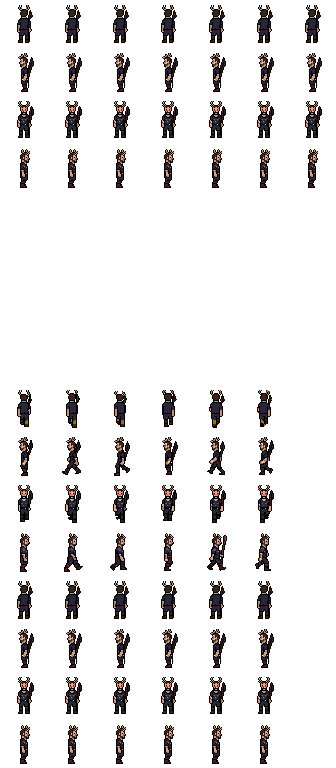
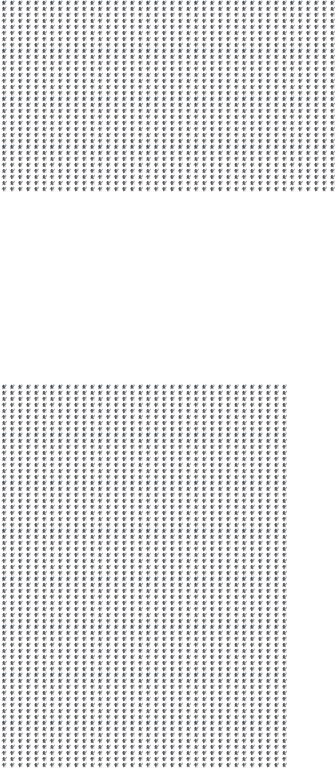
new sprites gamelab

diff --git a/src/data/assets_list.js b/src/data/assets_list.js
@@ -1,1 +1,1 @@
-export const ASSET_NAMES = ['class_druid', 'class_necromancer', 'class_paladin', 'class_ranger', 'class_rogue', 'class_selection', 'class_selection_screen', 'class_shaman', 'class_sorceress', 'class_warlock', 'class_warrior', 'enemy_bat', 'enemy_cultist', 'enemy_demon', 'enemy_ghost', 'enemy_goblin', 'enemy_golem', 'enemy_skeleton', 'enemy_spider', 'enemy_zombie', 'env_bridge', 'env_door', 'env_floor', 'env_grass', 'env_path', 'env_sand', 'env_sand_hd', 'env_stairs_down', 'env_stairs_up', 'env_tree', 'env_wall', 'env_water', 'item_amulet', 'item_amulet_viper_hd', 'item_armor_chain', 'item_armor_leather', 'item_armor_plate', 'item_armor_robe', 'item_axe', 'item_axe_hand', 'item_axe_hd', 'item_axe_war', 'item_belt', 'item_bone_wand', 'item_book_skill_hd', 'item_boots', 'item_boots_leather', 'item_boots_war', 'item_bow', 'item_bow_long', 'item_bow_short', 'item_buckler', 'item_chain_mail', 'item_charm_grand', 'item_charm_large', 'item_charm_small', 'item_chest', 'item_circlet', 'item_crown', 'item_dagger', 'item_emerald', 'item_emerald_perfect', 'item_gauntlets', 'item_gloves', 'item_gloves_gauntlets', 'item_gloves_leather', 'item_grand_totem', 'item_great_helm', 'item_great_helm_hd', 'item_hammer_war', 'item_hand_axe', 'item_helm', 'item_helm_circlet', 'item_helm_great', 'item_helm_leather', 'item_horadric_fragment', 'item_key_hellfire', 'item_leather_armor', 'item_leather_boots', 'item_helm_leather', 'item_gloves', 'item_long_bow', 'item_long_sword', 'item_mace_hd', '', 'item_mace_hd', 'item_mephisto_soulstone', 'item_orb', 'item_orb_arcane', 'item_plate_mail', 'item_plate_mail_hd', 'item_potion_hp', 'item_potion_mp', 'item_potion_rejuv', 'item_ring', 'item_robe', 'item_ruby', 'item_ruby_perfect', 'item_rune_amn', 'item_rune_blade', 'item_rune_dol', 'item_rune_el', 'item_rune_eld', 'item_rune_eth', 'item_rune_fal', 'item_rune_gul', 'item_rune_hel', 'item_rune_io', 'item_rune_ist', 'item_rune_ith', 'item_rune_ko', 'item_rune_lem', 'item_rune_lum', 'item_rune_mal', 'item_rune_nef', 'item_rune_ort', 'item_rune_pul', 'item_rune_ral', 'item_rune_shael', 'item_rune_sol', 'item_rune_tal', 'item_rune_thul', 'item_rune_tir', 'item_rune_um', 'item_rune_vex', 'item_rune_zod', 'item_sapphire', 'item_sapphire_perfect', 'item_scroll', 'item_scroll_blue', 'item_scroll_tp', 'item_shield', 'item_shield_buckler', 'item_shield_hd', 'item_shield_source', 'item_shield_tower', 'item_short_bow', 'item_short_staff', 'item_short_sword', 'item_skull', 'item_skull_perfect', 'item_source', 'item_staff', 'item_staff_kings_hd', 'item_staff_short', 'item_staff_war', 'item_sword', 'item_sword_hd', 'item_sword_long', 'item_sword_short', 'item_sword_zweihander', 'item_tome_id', 'item_tome_tp', 'item_topaz', 'item_topaz_perfect', 'item_totem', 'item_totem_base', 'item_tower_shield', 'item_wand', 'item_wand_base', 'item_wand_bone', 'item_war_axe', 'item_war_boots', 'item_war_hammer', 'item_war_hammer_hd', 'item_war_staff', 'item_wirts_leg', 'item_zweihander', 'npc_elder', 'npc_merchant', 'npc_portrait_akara', 'npc_portrait_charsi', 'npc_portrait_deckard_cain', 'npc_portrait_generic', 'npc_portrait_kashya', 'npc_villager', 'obj_barrel', 'obj_chest', 'obj_chest_hd_v2', 'obj_chest_open', 'obj_debris', 'obj_shrine', 'obj_shrine_used', 'obj_urn', 'rune_amn', 'rune_dol', 'rune_el', 'rune_eld', 'rune_eth', 'rune_fal', 'rune_gul', 'rune_ist', 'rune_ith', 'rune_ko', 'rune_lem', 'rune_lum', 'rune_mal', 'rune_nef', 'rune_ort', 'rune_pul', 'rune_ral', 'rune_shael', 'rune_sol', 'rune_tal', 'rune_thul', 'rune_tir', 'rune_um', 'rune_vex', 'rune_zod'];
+export const ASSET_NAMES = ['class_druid', 'class_necromancer', 'class_paladin', 'class_ranger', 'class_rogue', 'class_selection', 'class_selection_screen', 'class_shaman', 'class_shaman_spritesheet', 'class_sorceress', 'class_warlock', 'class_warrior', 'enemy_bat', 'enemy_cultist', 'enemy_demon', 'enemy_ghost', 'enemy_goblin', 'enemy_golem', 'enemy_skeleton', 'enemy_spider', 'enemy_zombie', 'env_bridge', 'env_door', 'env_floor', 'env_grass', 'env_path', 'env_sand', 'env_sand_hd', 'env_stairs_down', 'env_stairs_up', 'env_tree', 'env_wall', 'env_water', 'npc_blacksmith', 'npc_elder', 'npc_guard', 'npc_merchant', 'mercenary_warrior', 'mercenary_archer', 'item_amulet', 'item_amulet_viper_hd', 'item_armor_chain', 'item_armor_leather', 'item_armor_plate', 'item_armor_robe', 'item_axe', 'item_axe_hand', 'item_axe_hd', 'item_axe_war', 'item_belt', 'item_bone_wand', 'item_book_skill_hd', 'item_boots', 'item_boots_leather', 'item_boots_war', 'item_bow', 'item_bow_long', 'item_bow_short', 'item_buckler', 'item_chain_mail', 'item_charm_grand', 'item_charm_large', 'item_charm_small', 'item_chest', 'item_circlet', 'item_crown', 'item_dagger', 'item_emerald', 'item_emerald_perfect', 'item_gauntlets', 'item_gloves', 'item_gloves_gauntlets', 'item_gloves_leather', 'item_grand_totem', 'item_great_helm', 'item_great_helm_hd', 'item_hammer_war', 'item_hand_axe', 'item_helm', 'item_helm_circlet', 'item_helm_great', 'item_helm_leather', 'item_horadric_fragment', 'item_key_hellfire', 'item_leather_armor', 'item_leather_boots', 'item_helm_leather', 'item_gloves', 'item_long_bow', 'item_long_sword', 'item_mace_hd', '', 'item_mace_hd', 'item_mephisto_soulstone', 'item_orb', 'item_orb_arcane', 'item_plate_mail', 'item_plate_mail_hd', 'item_potion_hp', 'item_potion_mp', 'item_potion_rejuv', 'item_ring', 'item_robe', 'item_ruby', 'item_ruby_perfect', 'item_rune_amn', 'item_rune_blade', 'item_rune_dol', 'item_rune_el', 'item_rune_eld', 'item_rune_eth', 'item_rune_fal', 'item_rune_gul', 'item_rune_hel', 'item_rune_io', 'item_rune_ist', 'item_rune_ith', 'item_rune_ko', 'item_rune_lem', 'item_rune_lum', 'item_rune_mal', 'item_rune_nef', 'item_rune_ort', 'item_rune_pul', 'item_rune_ral', 'item_rune_shael', 'item_rune_sol', 'item_rune_tal', 'item_rune_thul', 'item_rune_tir', 'item_rune_um', 'item_rune_vex', 'item_rune_zod', 'item_sapphire', 'item_sapphire_perfect', 'item_scroll', 'item_scroll_blue', 'item_scroll_tp', 'item_shield', 'item_shield_buckler', 'item_shield_hd', 'item_shield_source', 'item_shield_tower', 'item_short_bow', 'item_short_staff', 'item_short_sword', 'item_skull', 'item_skull_perfect', 'item_source', 'item_staff', 'item_staff_kings_hd', 'item_staff_short', 'item_staff_war', 'item_sword', 'item_sword_hd', 'item_sword_long', 'item_sword_short', 'item_sword_zweihander', 'item_tome_id', 'item_tome_tp', 'item_topaz', 'item_topaz_perfect', 'item_totem', 'item_totem_base', 'item_tower_shield', 'item_wand', 'item_wand_base', 'item_wand_bone', 'item_war_axe', 'item_war_boots', 'item_war_hammer', 'item_war_hammer_hd', 'item_war_staff', 'item_wirts_leg', 'item_zweihander', 'npc_elder', 'npc_merchant', 'npc_portrait_akara', 'npc_portrait_charsi', 'npc_portrait_deckard_cain', 'npc_portrait_generic', 'npc_portrait_kashya', 'npc_villager', 'obj_barrel', 'obj_chest', 'obj_chest_hd_v2', 'obj_chest_open', 'obj_debris', 'obj_shrine', 'obj_shrine_used', 'obj_urn', 'rune_amn', 'rune_dol', 'rune_el', 'rune_eld', 'rune_eth', 'rune_fal', 'rune_gul', 'rune_ist', 'rune_ith', 'rune_ko', 'rune_lem', 'rune_lum', 'rune_mal', 'rune_nef', 'rune_ort', 'rune_pul', 'rune_ral', 'rune_shael', 'rune_sol', 'rune_tal', 'rune_thul', 'rune_tir', 'rune_um', 'rune_vex', 'rune_zod'];

diff --git a/src/main.js b/src/main.js
@@ -6011,9 +6011,17 @@ function hireMercenary(type = 'Rogue') {
     const names = {
         'Rogue': ['Aliza', 'Kyra', 'Paige', 'Blaise'],
         'Desert Warrior': ['Heseir', 'Raheer', 'EMez', 'Fazel'],
-        'Iron Wolf': ['Jarulf', 'Isenhart', 'Telash', 'Flux']
+        'Iron Wolf': ['Jarulf', 'Isenhart', 'Telash', 'Flux'],
+        'Mercenary Warrior': ['Kormac', 'Lyon', 'Torion', 'Garek'],
+        'Mercenary Archer': ['Eirena', 'Valla', 'Lyra', 'Sarya']
     };
-    const icons = { 'Rogue': 'class_rogue', 'Desert Warrior': 'class_warrior', 'Iron Wolf': 'class_shaman' };
+    const icons = { 
+        'Rogue': 'class_rogue', 
+        'Desert Warrior': 'class_warrior', 
+        'Iron Wolf': 'class_shaman',
+        'Mercenary Warrior': 'mercenary_warrior',
+        'Mercenary Archer': 'mercenary_archer'
+    };
 
     const nameList = names[type] || names['Rogue'];
     mercenary = new Mercenary({

diff --git a/src/world/dungeon.js b/src/world/dungeon.js
@@ -372,7 +372,7 @@ export class Dungeon {
                 type: "mercenary_hire",
                 x: (cx - 4) * this.tileSize,
                 y: (cy + 2) * this.tileSize,
-                icon: "npc_elder",
+                icon: "npc_guard",
                 dialogue: "Need a fighter? I can send one of my rogues to aid you... for a price."
             });
 
@@ -392,7 +392,7 @@ export class Dungeon {
                 type: "merchant",
                 x: (cx + 5) * this.tileSize,
                 y: (cy - 3) * this.tileSize,
-                icon: "npc_merchant",
+                icon: "npc_blacksmith",
                 dialogue: "Need a new blade? I can keep your gear in fighting shape."
             });
         }

diff --git a/fix_gamelab_assets.py b/fix_gamelab_assets.py
@@ -1,0 +1,72 @@
+import os
+from PIL import Image
+
+def fix_shaman():
+    print("Corrigiendo Spritesheet del Shaman...")
+    path = 'assets/class_shaman_spritesheet.png'
+    if not os.path.exists(path):
+        print("No se encontró assets/class_shaman_spritesheet.png")
+        return
+    
+    img = Image.open(path).convert("RGBA")
+    # El archivo mide 394x526. Gamelab suele hacer grids. 
+    # Vamos a asumir un grid de frames y redimensionar el resultado final.
+    # El motor espera un spritesheet de 48x48 por frame, 7 cols, 16 filas.
+    
+    target_sw, target_sh = 48, 48
+    cols, rows = 7, 16
+    final_out = Image.new("RGBA", (target_sw * cols, target_sh * rows), (0,0,0,0))
+    
+    # Redimensionamos la imagen original a algo que podamos manejar 
+    # (por ahora, usaremos la imagen base para rellenar el spritesheet de forma compatible)
+    # Como el spritesheet de Gamelab es una sola dirección/animación, lo usaremos para la fila de 'walk'
+    
+    base_frame = img.resize((48, 48), Image.Resampling.LANCZOS)
+    
+    # Llenamos todas las direcciones (0-3) y estados (Idle, Walk, Attack)
+    # para que el personaje sea visible y no un cuadro negro.
+    for dir_idx in range(4): # North, West, South, East
+        # Idle/Cast (Filas 0-3)
+        for c in range(7): final_out.paste(base_frame, (c * 48, (0 + dir_idx) * 48))
+        # Walk (Filas 8-11)
+        for c in range(6): final_out.paste(base_frame, (c * 48, (8 + dir_idx) * 48))
+        # Attack (Filas 12-15)
+        for c in range(6): final_out.paste(base_frame, (c * 48, (12 + dir_idx) * 48))
+        
+    final_out.save('assets/class_shaman.png')
+    print("✅ assets/class_shaman.png generado (48x48 compatible).")
+
+def fix_npc_mercenary(filename, out_name):
+    print(f"Procesando {filename} -> {out_name}...")
+    path = f'assets/{filename}.png'
+    if not os.path.exists(path):
+        print(f"No se encontró {path}")
+        return
+    
+    img = Image.open(path).convert("RGBA")
+    # Redimensionar la imagen de 1024x1024 a 48x48
+    base_frame = img.resize((48, 48), Image.Resampling.LANCZOS)
+    
+    # Crear spritesheet estándar de NPC (usaremos el formato de 48x48)
+    # Los NPCs en este motor suelen usar una sola imagen o un pequeño grid.
+    # Para máxima compatibilidad, crearemos un mini spritesheet.
+    final_out = Image.new("RGBA", (48, 48), (0,0,0,0))
+    final_out.paste(base_frame, (0, 0))
+    
+    final_out.save(f'assets/{out_name}.png')
+    print(f"✅ assets/{out_name}.png generado (48x48).")
+
+if __name__ == "__main__":
+    fix_shaman()
+    
+    assets_to_fix = [
+        ('npc_blacksmith', 'npc_blacksmith'),
+        ('npc_elder', 'npc_elder'),
+        ('npc_guard', 'npc_guard'),
+        ('npc_merchant', 'npc_merchant'),
+        ('mercenary_warrior', 'mercenary_warrior'),
+        ('mercenary_archer', 'mercenary_archer')
+    ]
+    
+    for inp, out in assets_to_fix:
+        fix_npc_mercenary(inp, out)
